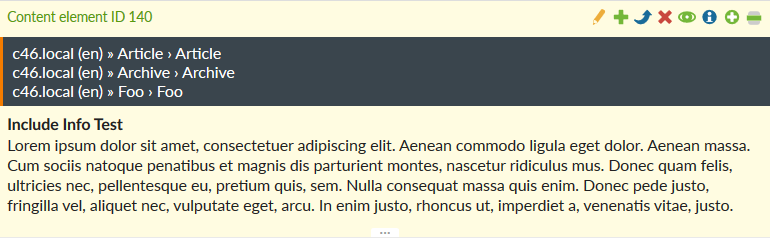
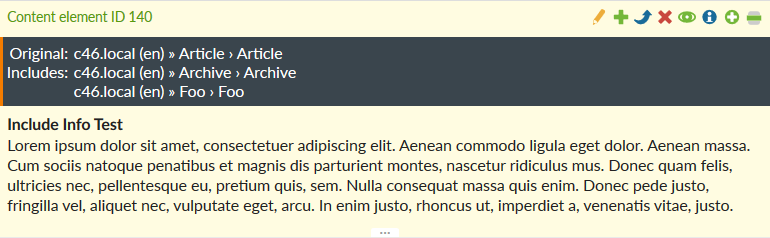
update screenshot

Changed region(s): [[0.0, 0.2059, 0.4052, 0.4118]]

diff --git a/src/Resources/contao/languages/en/default.php b/src/Resources/contao/languages/en/default.php
@@ -10,5 +10,6 @@ declare(strict_types=1);
  * @license LGPL-3.0-or-later
  */
 
-$GLOBALS['TL_LANG']['tl_article']['inc_originalLabel'] = 'Original:';
-$GLOBALS['TL_LANG']['tl_article']['inc_includesLabel'] = 'Includes:';
+$GLOBALS['TL_LANG']['MSC']['inc_originalLabel'] = 'Original:';
+$GLOBALS['TL_LANG']['MSC']['inc_includesLabel'] = 'Includes:';
+$GLOBALS['TL_LANG']['MSC']['inc_noIncludes'] = 'No information found.';
